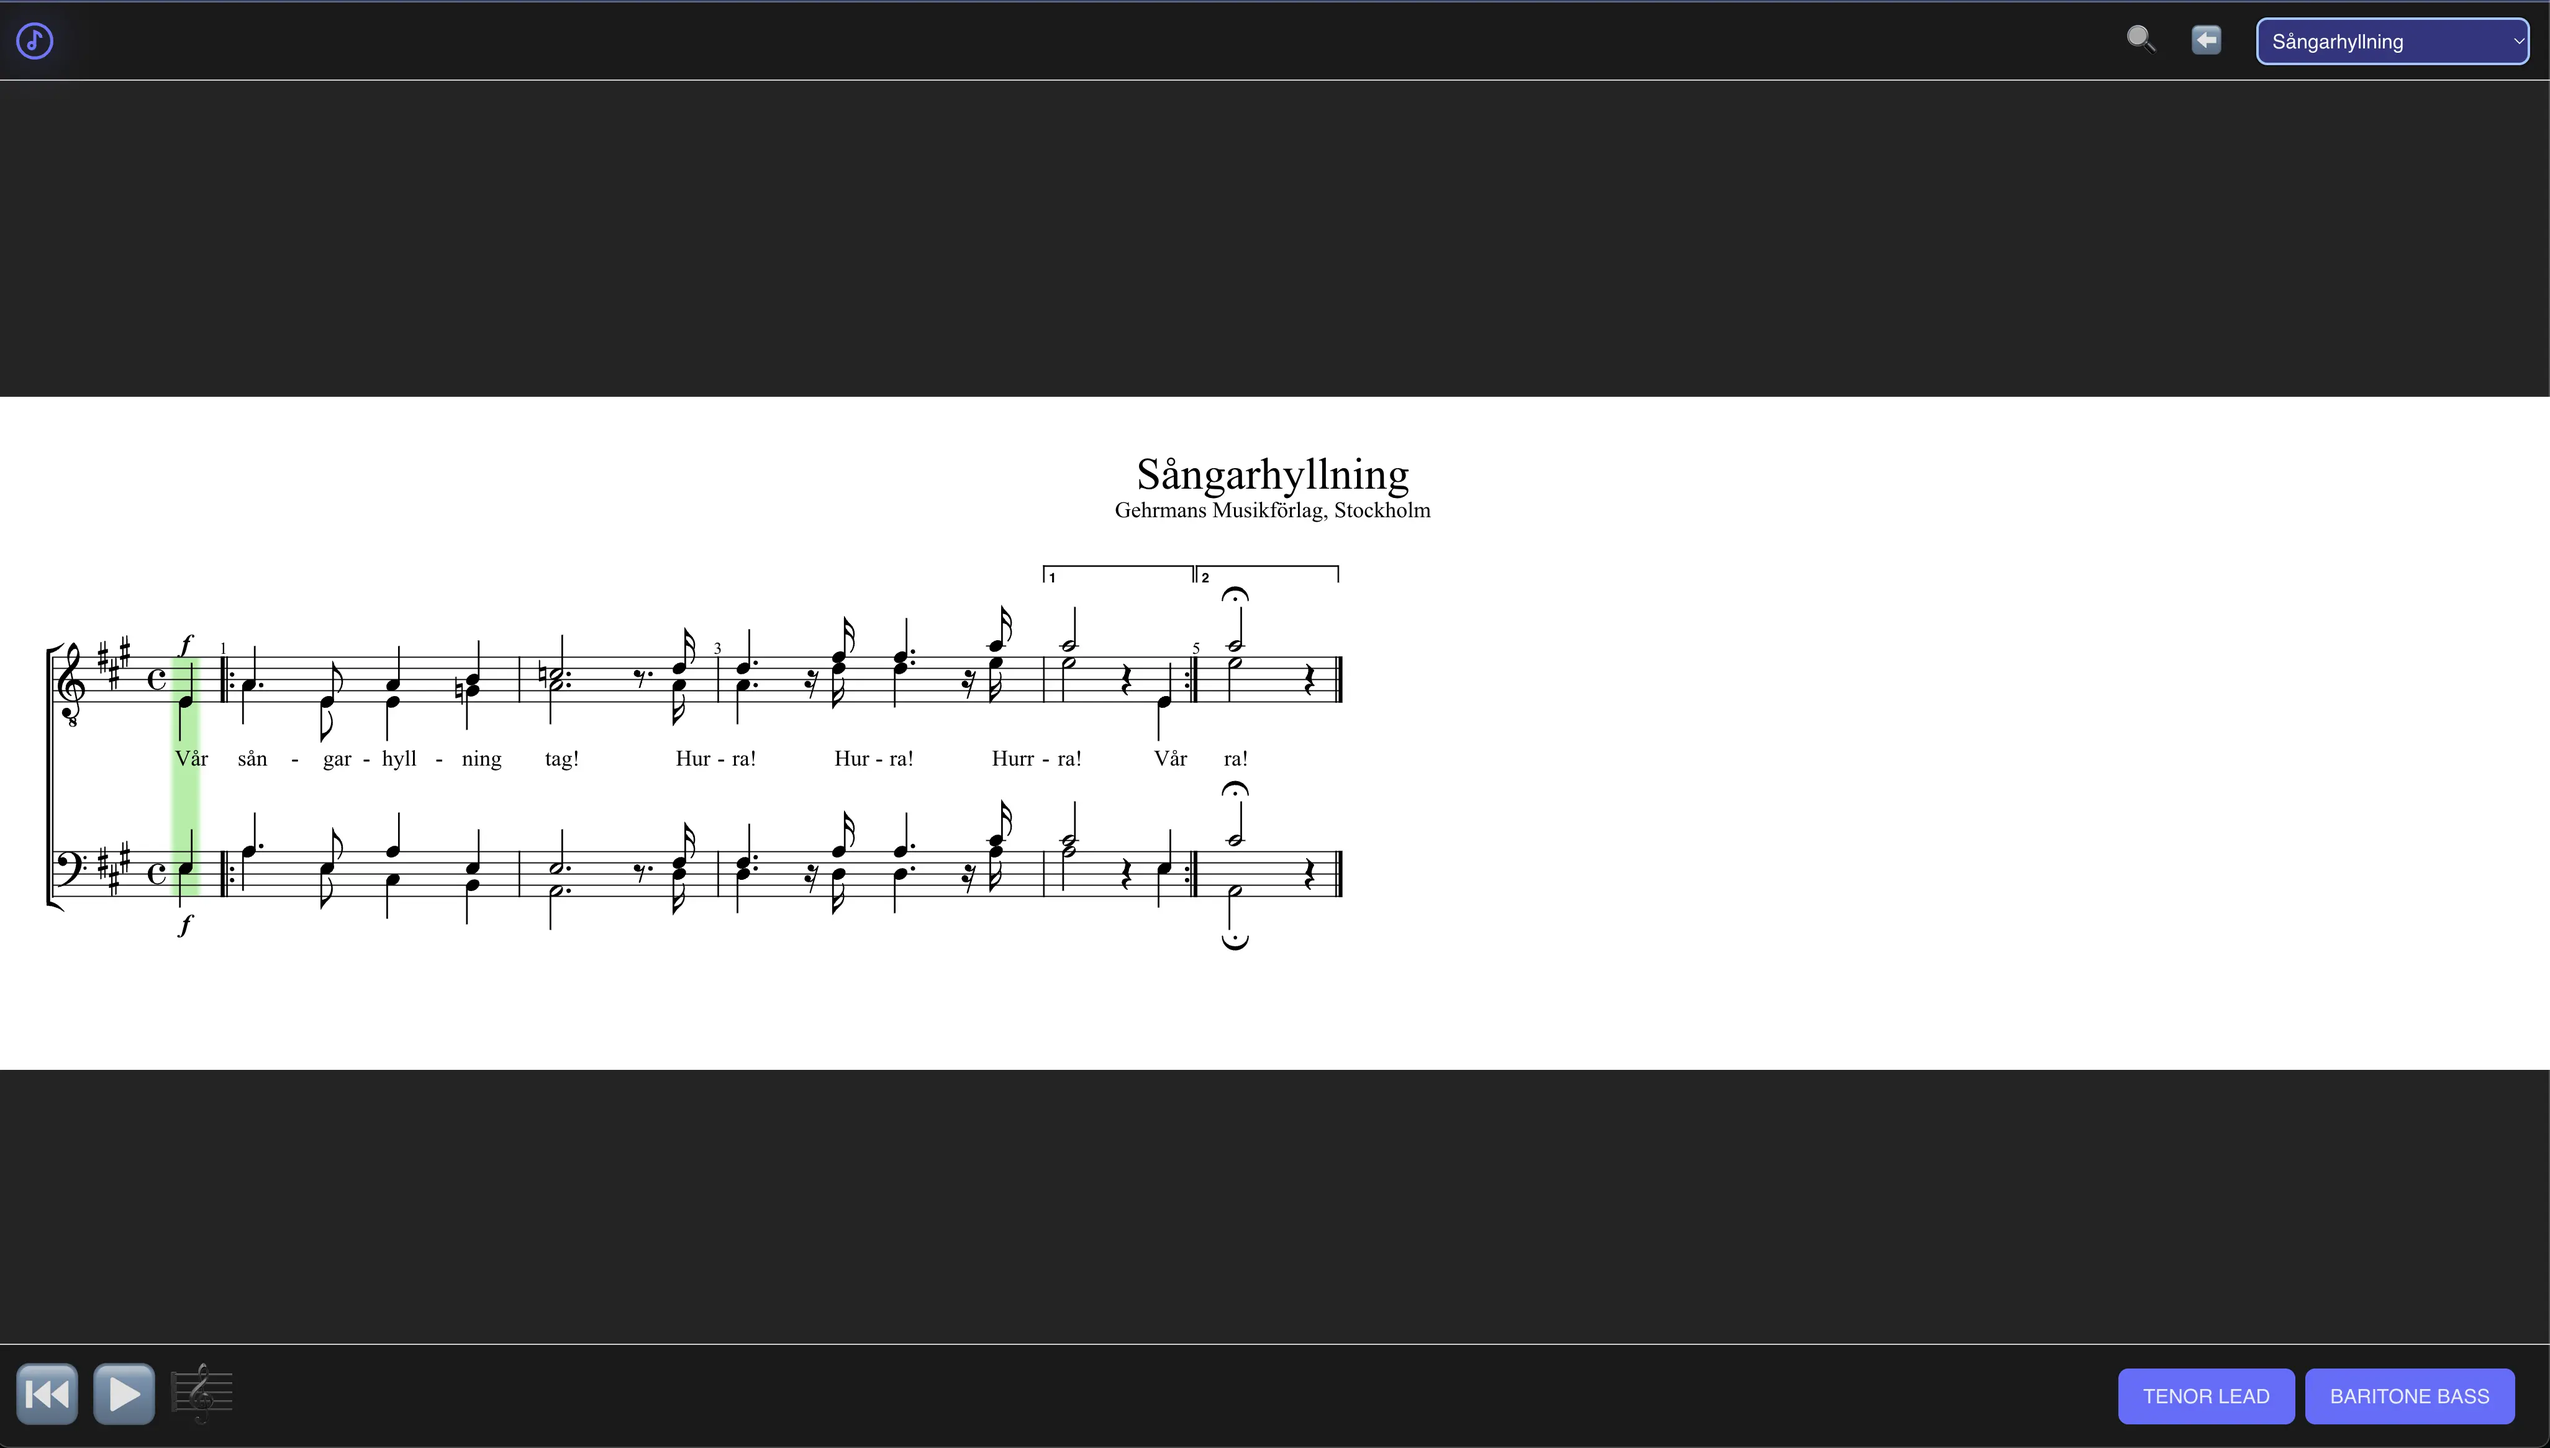
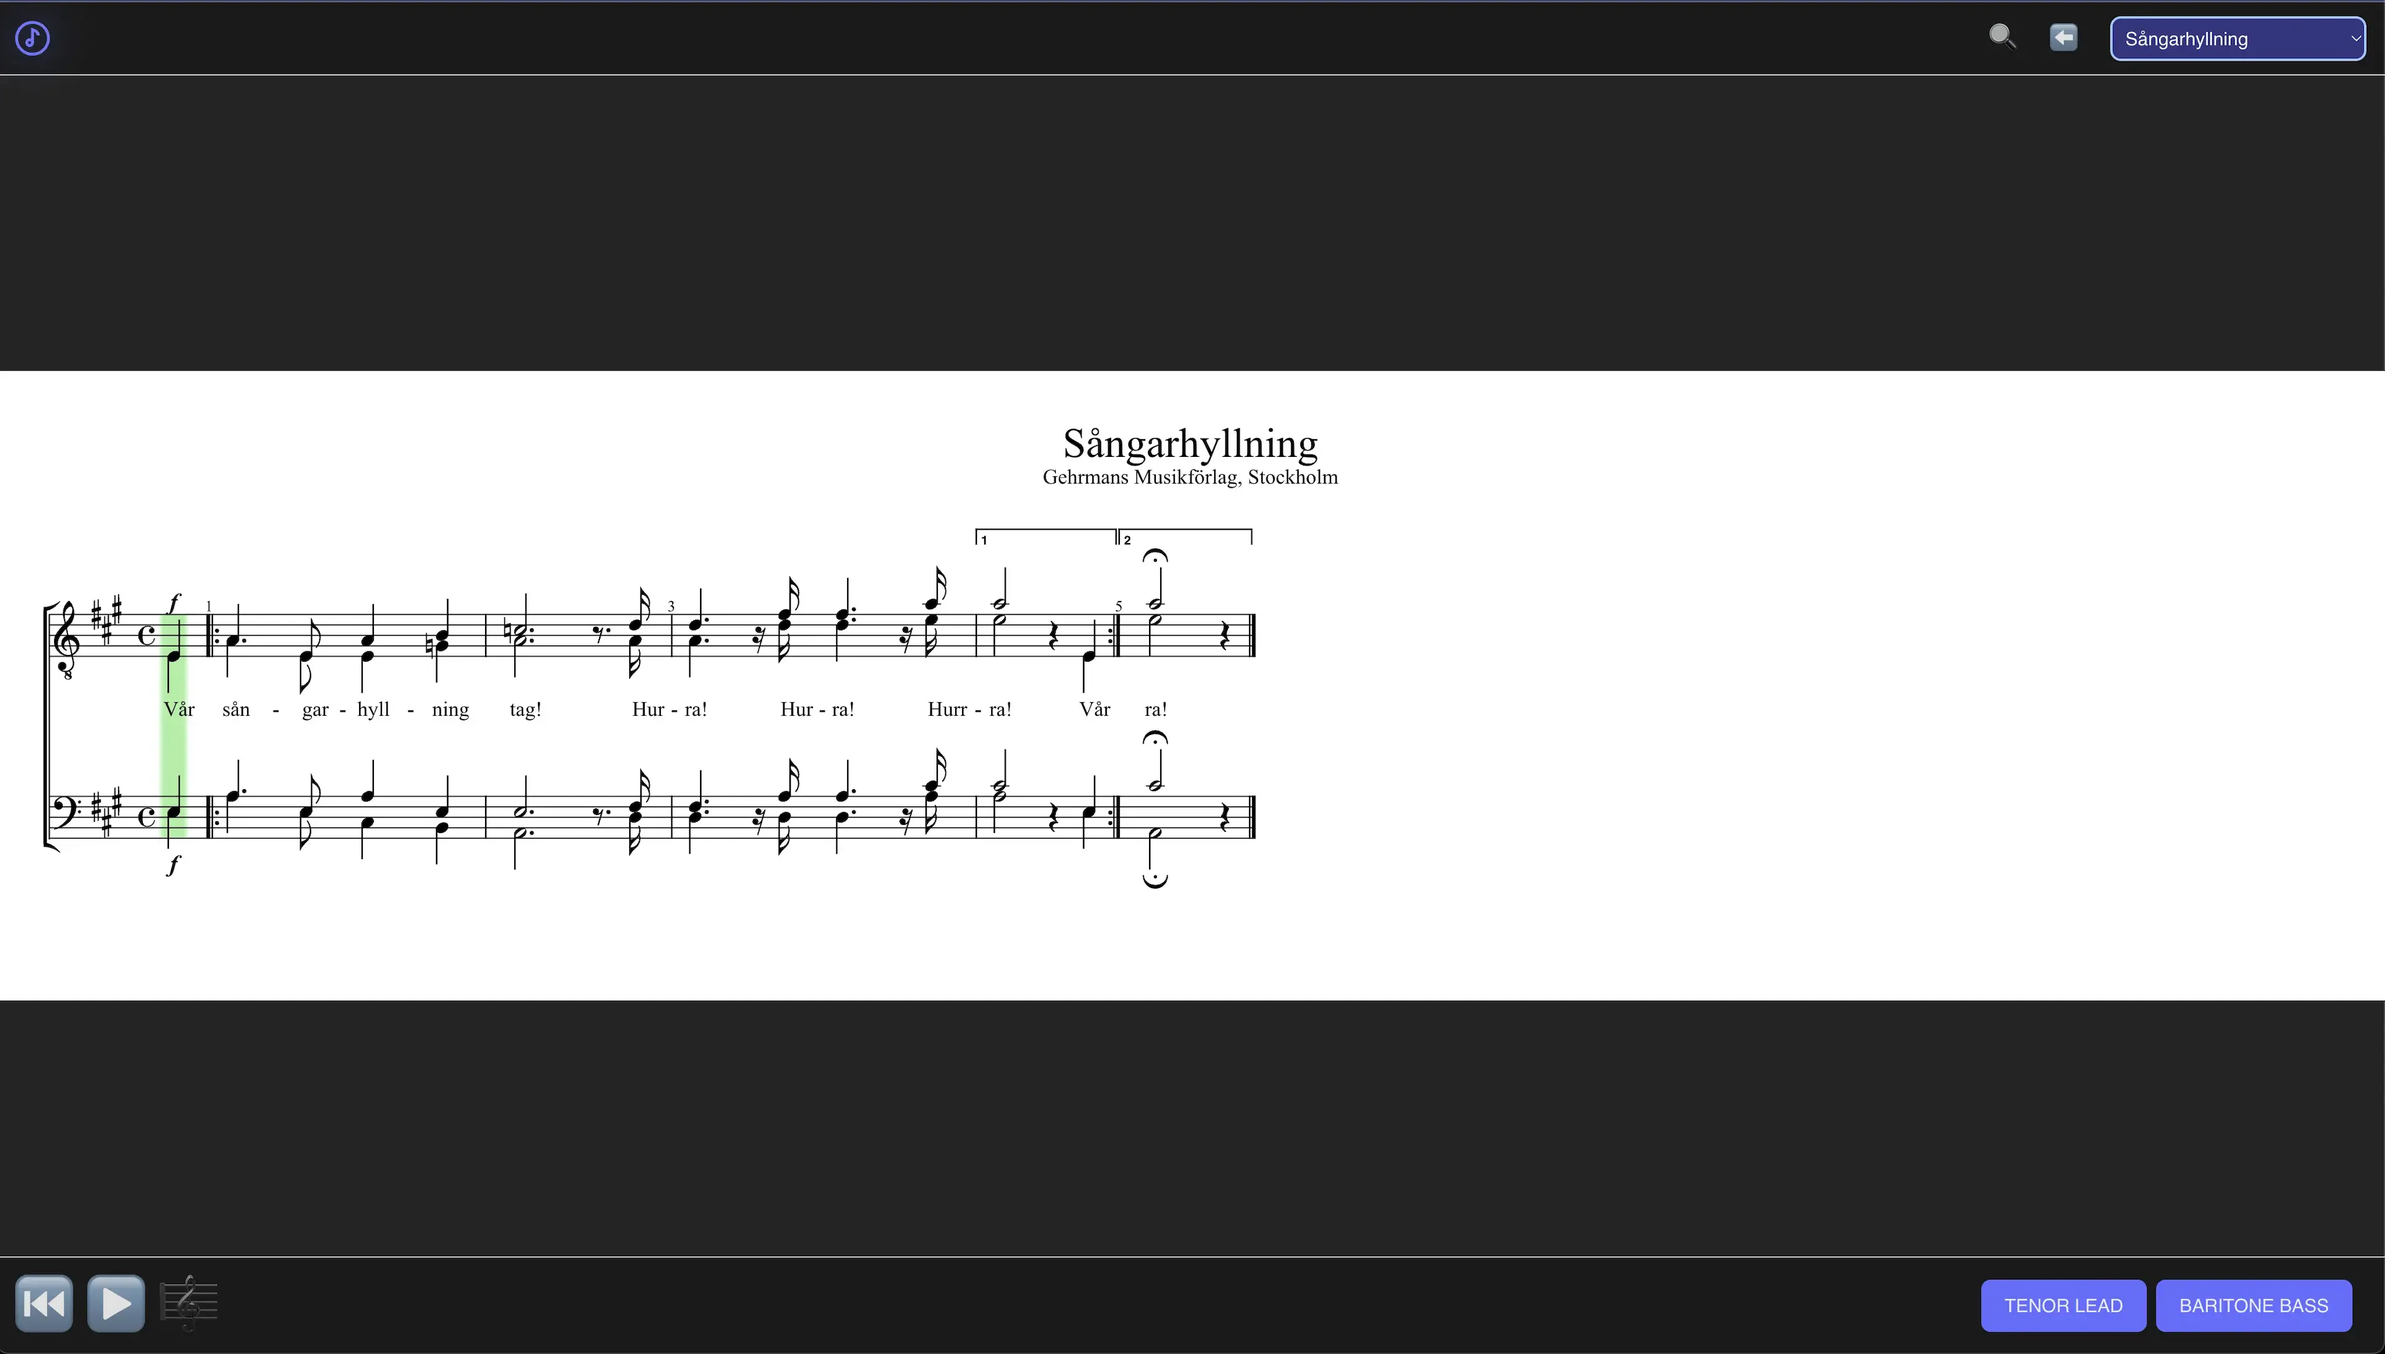
Updated size of installation screenshot and path to font for preloading

Changed region(s): [[0.9062, 0.0312, 0.9688, 0.0624], [0.0625, 0.5924, 0.0938, 0.6236]]

diff --git a/index.html b/index.html
@@ -7,7 +7,7 @@
     <link rel="icon" type="image/svg+xml" href="favicon.svg" />
     <link rel="apple-touch-icon" href="assets/launcherApple.png">
     <link rel="manifest" href="assets/manifest.json">
-    <link rel="preload" href="assets/fonts/Roboto.woff2" as="font" type="font/woff2" crossorigin>
+    <link rel="preload" href="fonts/Roboto.woff2" as="font" type="font/woff2" crossorigin>
     <title>CeNotes 🎶</title>
   </head>
   <body>
